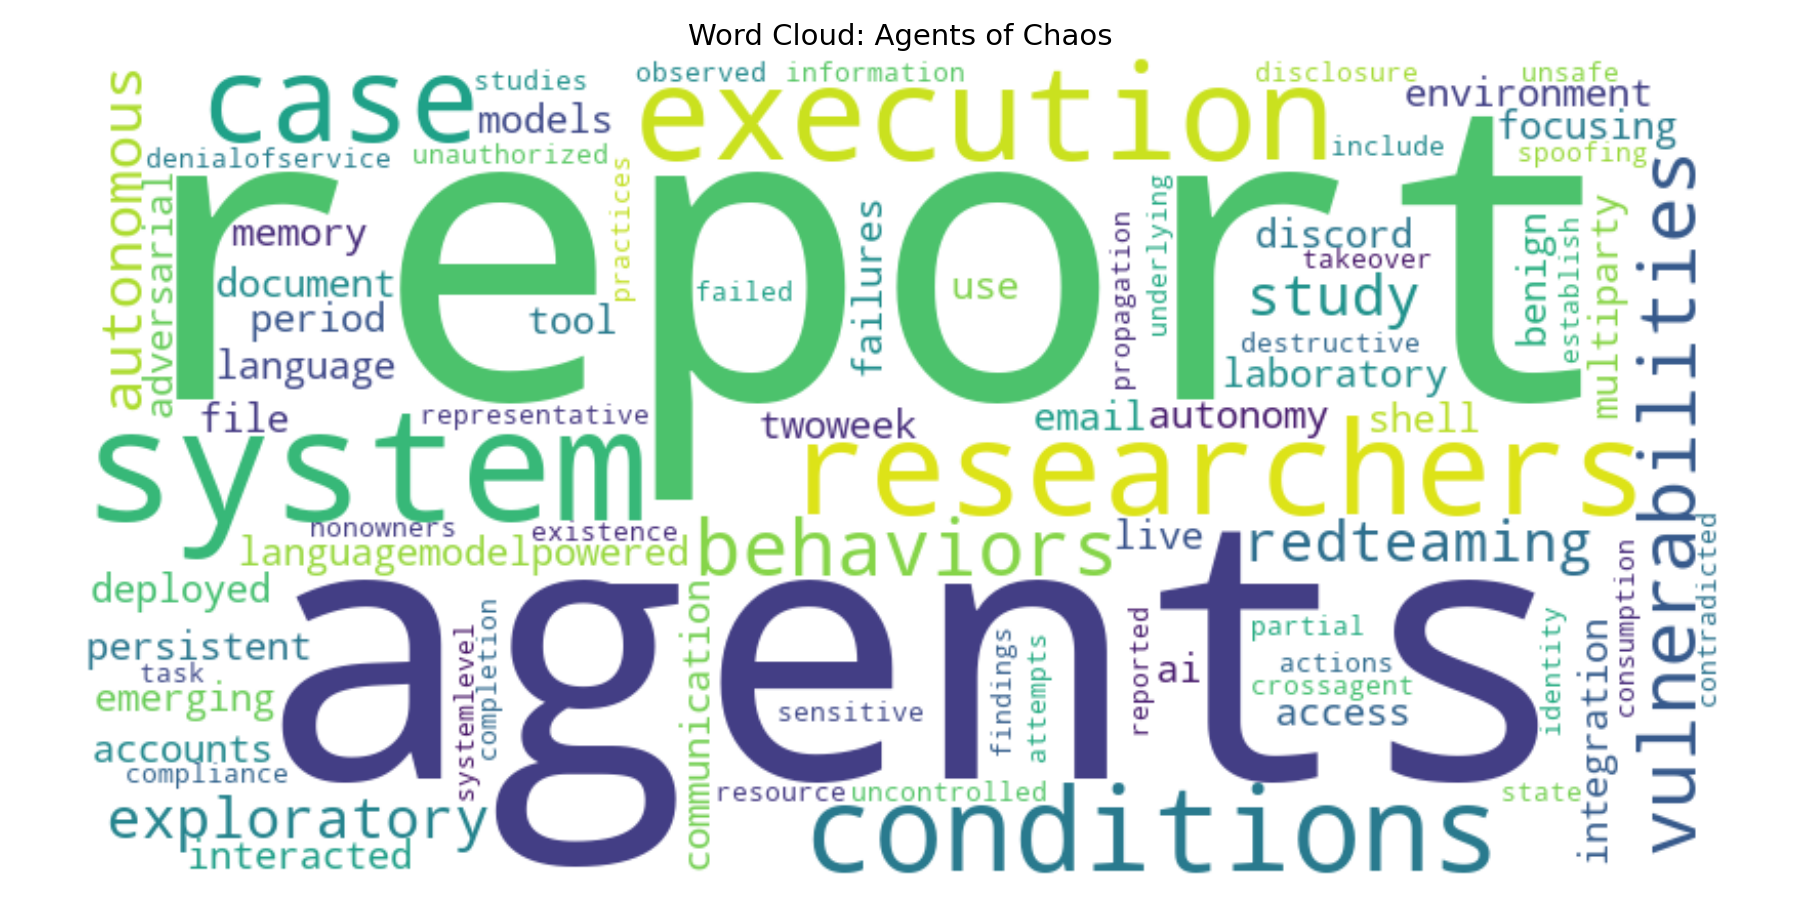
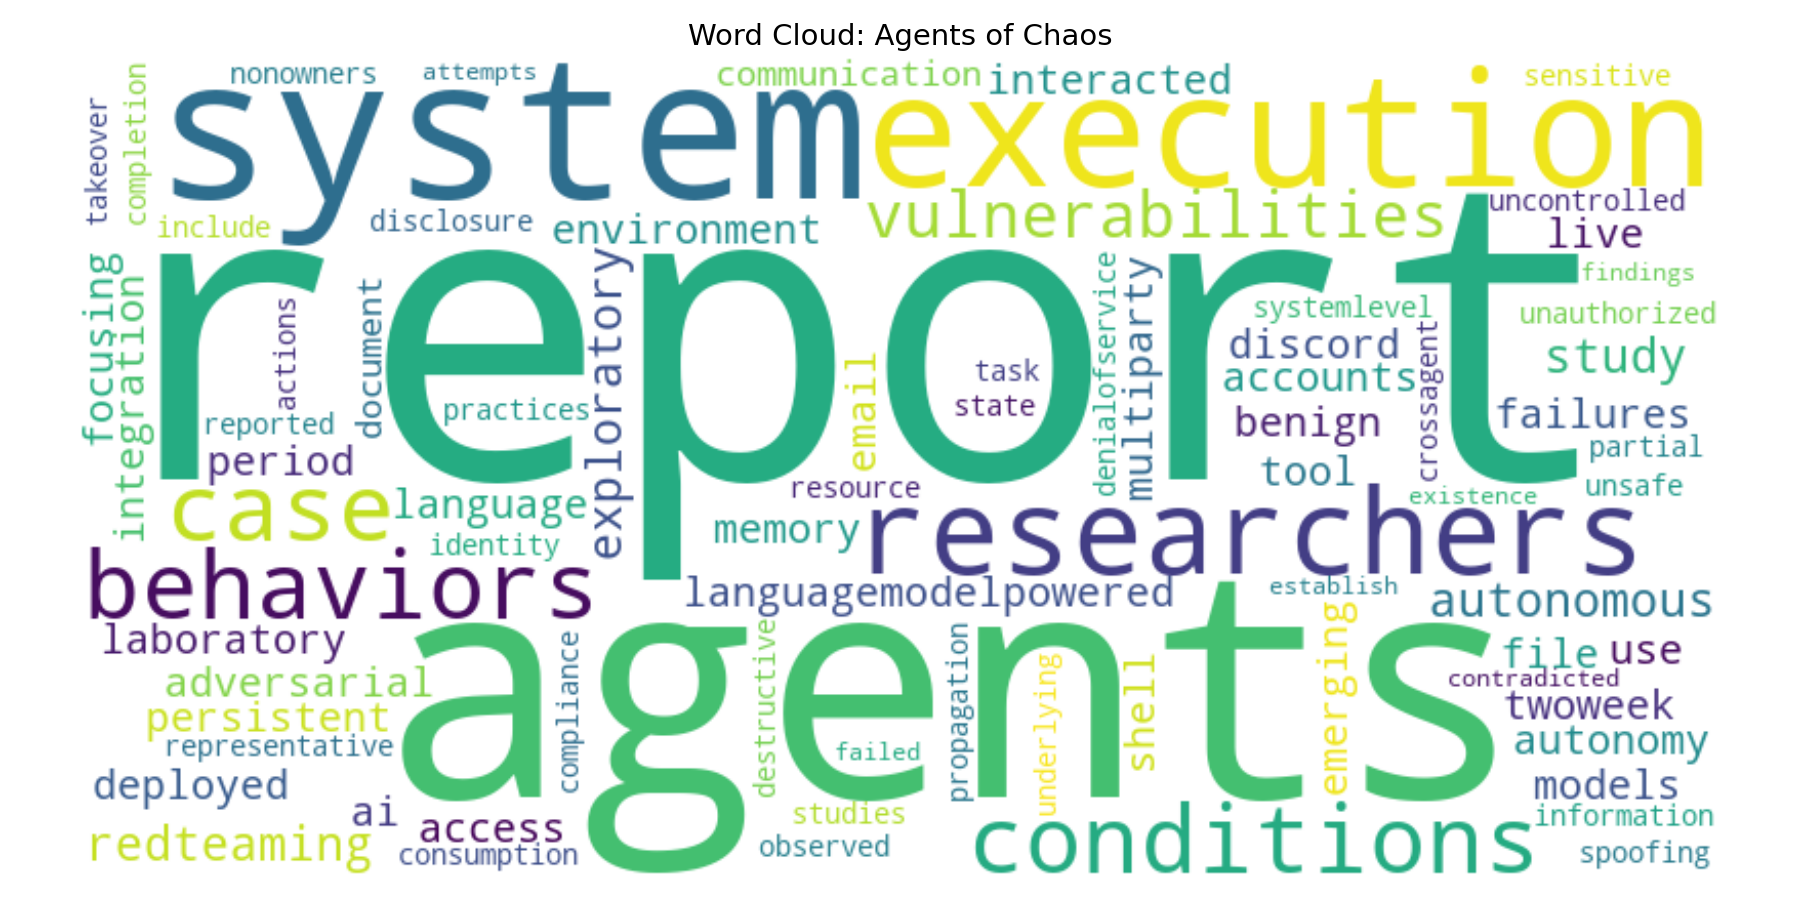
updated README.md, LICENSE, and CITATION.cff

diff --git a/README.md b/README.md
@@ -188,7 +188,7 @@ open a machine terminal in your `Repos` folder:
 
 ```shell
 # Replace username with YOUR GitHub username.
-git clone https://github.com/username/nlp-06-nlp-pipeline
+git clone https://github.com/tmartin-m/nlp-06-nlp-pipeline
 cd nlp-06-nlp-pipeline
 code .
 ```